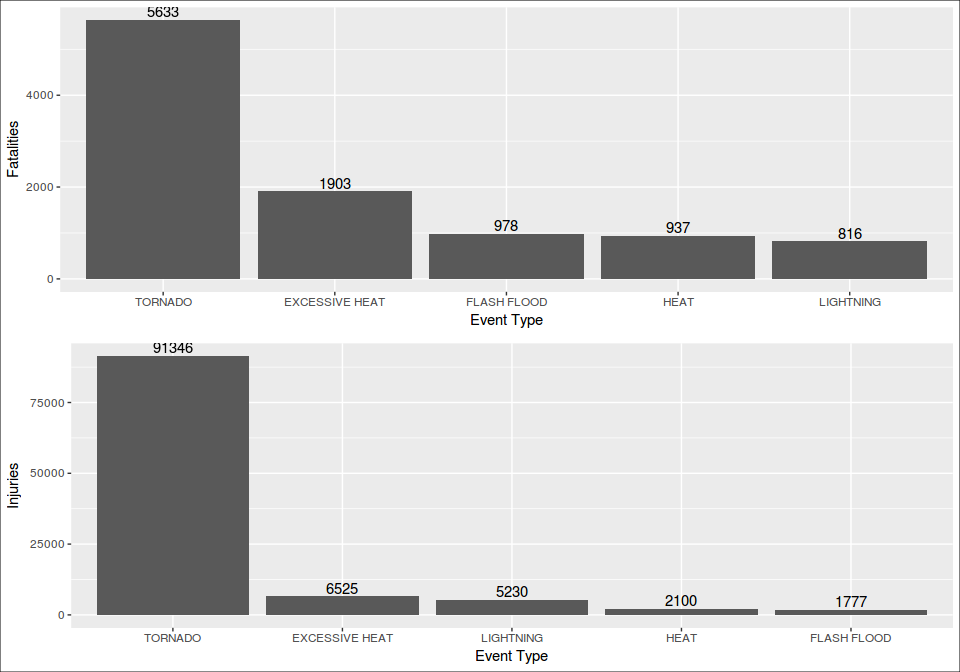
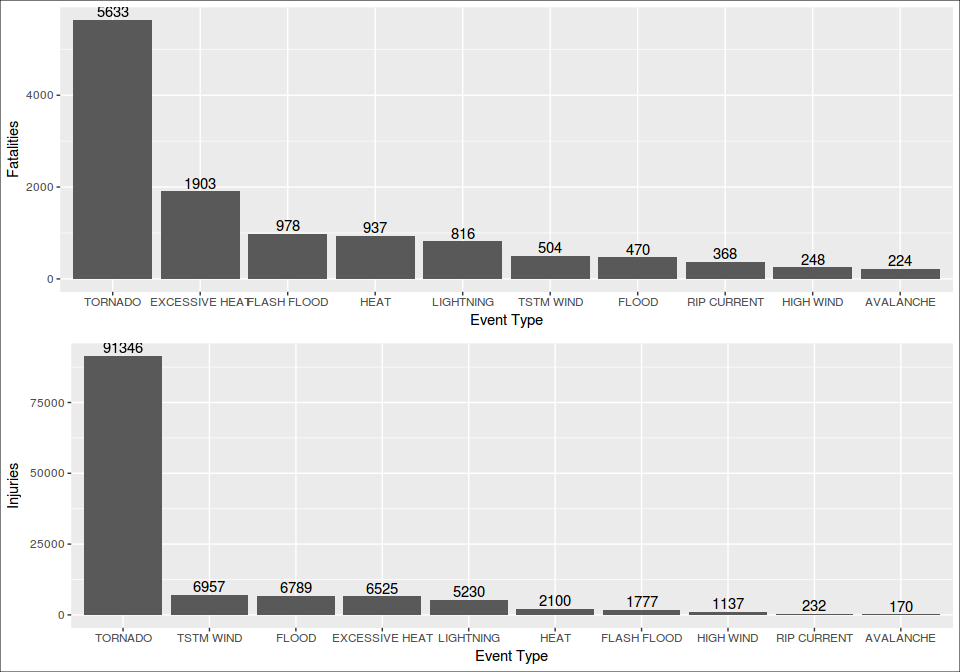
change rotation in plots. split long labels with str_wrap() and scale_x_discrete().

diff --git a/inst/notebooks/01-main.md b/inst/notebooks/01-main.md
@@ -422,14 +422,14 @@ We plot now the top 5 events that cause more harm on the population:
 
 
 ```r
-byEvent.005 <- byEvent.0[1:5, ]
+byEvent.top <- byEvent.0[1:10, ]
 
-p1 <- ggplot(byEvent.005, aes(x = reorder(EVTYPE, -fatal.sum), y = fatal.sum)) +
+p1 <- ggplot(byEvent.top, aes(x = reorder(EVTYPE, -fatal.sum), y = fatal.sum)) +
   geom_bar(stat = "identity") +
   xlab("Event Type") + ylab("Fatalities") +
   geom_text(aes(label=fatal.sum, vjust = -0.25))
 
-p2 <- ggplot(byEvent.005, aes(x = reorder(EVTYPE, -injur.sum), y = injur.sum)) +
+p2 <- ggplot(byEvent.top, aes(x = reorder(EVTYPE, -injur.sum), y = injur.sum)) +
   geom_bar(stat = "identity") +
   xlab("Event Type") + ylab("Injuries") +
   geom_text(aes(label=injur.sum, vjust = -0.25))
